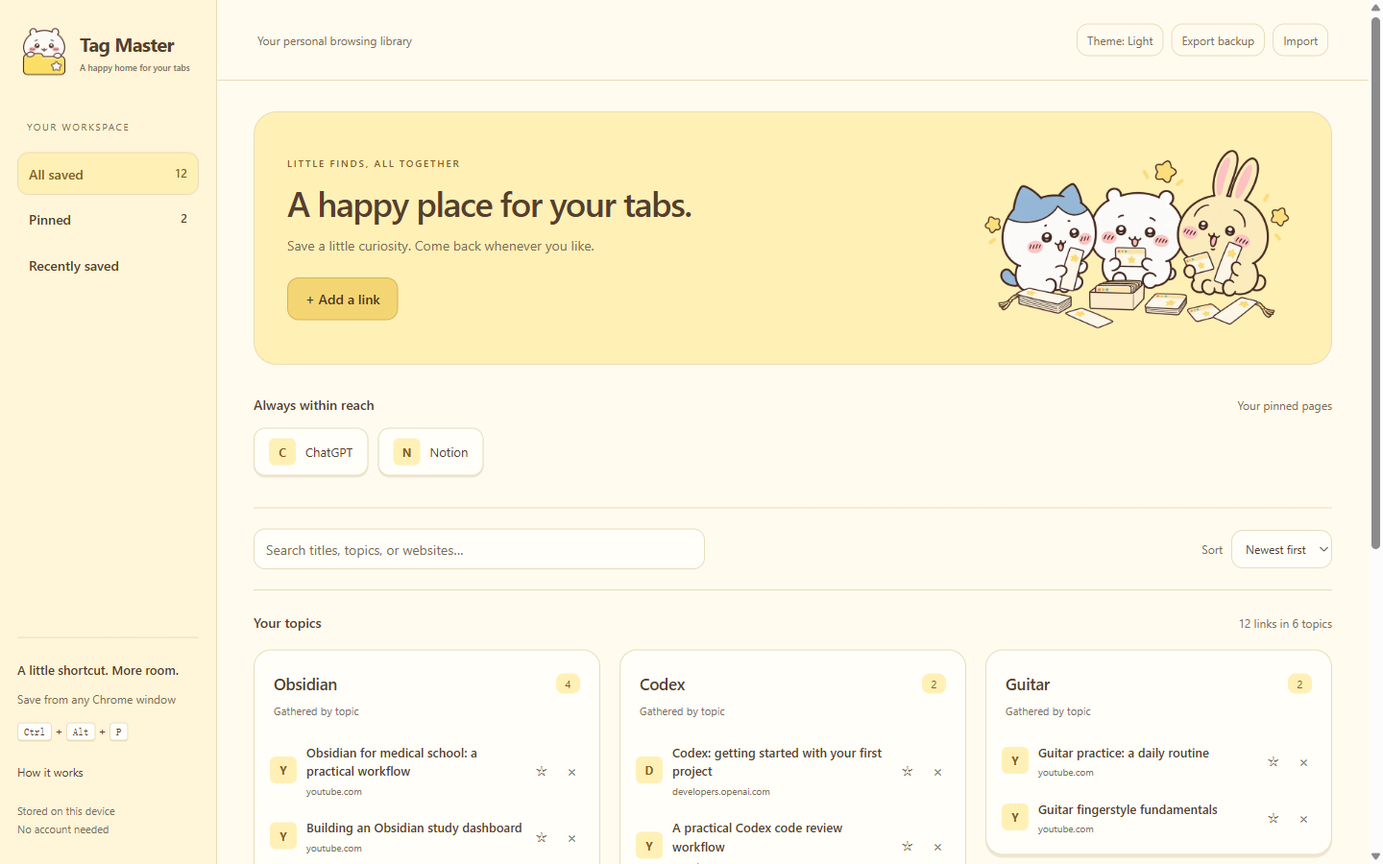
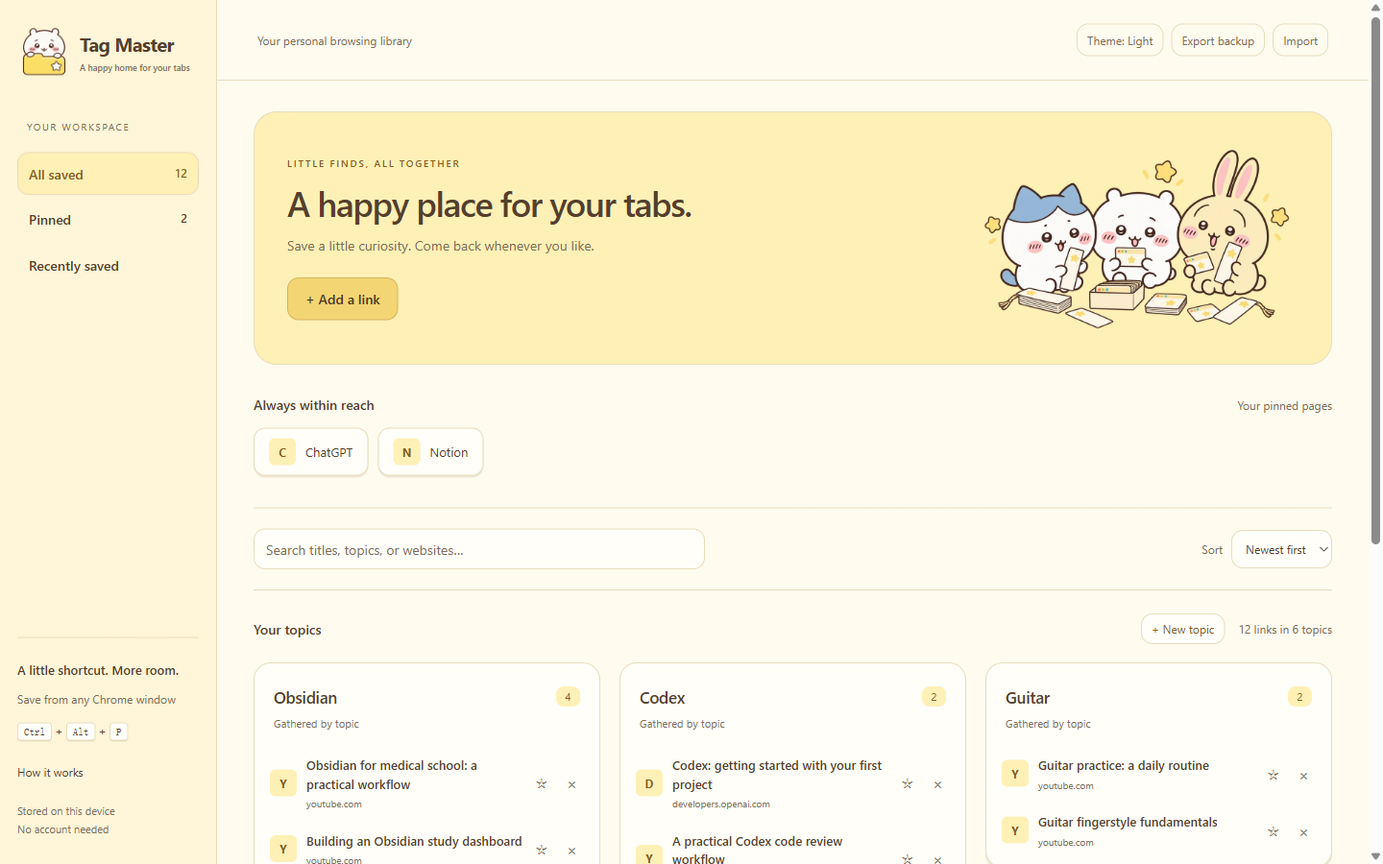
Add editable topics, empty topics, and drag-and-drop organization

diff --git a/library.js b/library.js
@@ -1,9 +1,9 @@
-import { cleanEntry, groupEntries, parseBackup } from './core.js';
+import { cleanEntry, cleanTopic, groupEntries, parseBackup } from './core.js';
 
 const $ = selector => document.querySelector(selector);
 const extension = !!globalThis.chrome?.runtime?.id;
 const demo = new URLSearchParams(location.search).has('demo');
-let entries = [], view = 'all', deleted, statusTimer, previewTimer;
+let entries = [], topics = [], view = 'all', deleted, statusTimer, previewTimer;
 const demoEntries = [
   ['Obsidian for medical school: a practical workflow','https://www.youtube.com/watch?v=example1','Connect lecture notes, clinical cases, and spaced repetition in Obsidian.'],
   ['Building an Obsidian study dashboard','https://www.youtube.com/watch?v=example2','A dashboard that brings together your study notes and review sessions.'],
@@ -23,9 +23,9 @@ function element(tag, className, text) { const node=document.createElement(tag);
 function notify(message, undo=false) { clearTimeout(statusTimer); $('#status span').textContent=message; $('#undo').hidden=!undo; $('#status').hidden=false; statusTimer=setTimeout(()=>$('#status').hidden=true,undo?10000:5000); }
 function domain(entry) { return new URL(entry.url).hostname.replace(/^www\./,''); }
 async function load() {
-  if(demo) entries=demoEntries;
-  else if(extension) entries=Object.entries(await chrome.storage.local.get(null)).filter(([key])=>key.startsWith('page:')).map(([,value])=>cleanEntry(value));
-  else entries=JSON.parse(localStorage.getItem('tag-master-preview')||'[]').map(cleanEntry);
+  if(demo) { entries=demoEntries; topics=[]; }
+  else if(extension) { const stored=await chrome.storage.local.get(null);entries=Object.entries(stored).filter(([key])=>key.startsWith('page:')).map(([,value])=>cleanEntry(value));topics=stored.topics||[]; }
+  else { entries=JSON.parse(localStorage.getItem('tag-master-preview')||'[]').map(cleanEntry);topics=JSON.parse(localStorage.getItem('tag-master-topics')||'[]'); }
   render();
 }
 async function mutate(message) {
@@ -33,11 +33,15 @@ async function mutate(message) {
   if(extension) { const result=await chrome.runtime.sendMessage(message); if(!result?.ok) throw new Error(result?.error||'Could not save changes.'); }
   else {
     let updated=[...entries];
-    if(message.type==='save') { const entry=cleanEntry(message.page); const old=updated.find(e=>e.id===entry.id); updated=updated.filter(e=>e.id!==entry.id); updated.push(old?{...entry,savedAt:old.savedAt,pinned:old.pinned}:entry); }
+    if(message.type==='save') { const entry=cleanEntry(message.page); const old=updated.find(e=>e.id===entry.id); updated=updated.filter(e=>e.id!==entry.id); updated.push(old?{...entry,savedAt:old.savedAt,pinned:old.pinned,topic:old.topic}:entry); }
     if(message.type==='delete')updated=updated.filter(e=>e.id!==message.id);
     if(message.type==='pin')updated=updated.map(e=>e.id===message.id?{...e,pinned:!e.pinned}:e);
-    if(message.type==='import') { const ids=new Set(updated.map(e=>e.id)); for(const entry of parseBackup(message.text)) if(!ids.has(entry.id)){updated.push(entry);ids.add(entry.id);} }
+    if(message.type==='create-topic') { const label=cleanTopic(message.topic);if(topics.some(topic=>topic.toLowerCase()===label.toLowerCase()))throw new Error('That topic already exists.');topics.push(label); }
+    if(message.type==='set-topic') { const label=cleanTopic(message.topic);updated=updated.map(e=>e.id===message.id?{...e,topic:label}:e);if(!topics.some(topic=>topic.toLowerCase()===label.toLowerCase()))topics.push(label); }
+    if(message.type==='rename-topic') { const label=cleanTopic(message.topic);const ids=new Set(message.ids);updated=updated.map(e=>ids.has(e.id)?{...e,topic:label}:e);topics=topics.filter(topic=>topic.toLowerCase()!==message.oldTopic.toLowerCase());if(!topics.some(topic=>topic.toLowerCase()===label.toLowerCase()))topics.push(label); }
+    if(message.type==='import') { const backup=parseBackup(message.text),ids=new Set(updated.map(e=>e.id));for(const entry of backup.entries)if(!ids.has(entry.id)){updated.push(entry);ids.add(entry.id);}for(const topic of backup.topics)if(!topics.some(value=>value.toLowerCase()===topic.toLowerCase()))topics.push(topic); }
     localStorage.setItem('tag-master-preview',JSON.stringify(updated));
+    localStorage.setItem('tag-master-topics',JSON.stringify(topics));
   }
   await load(); return true;
 }
@@ -52,6 +56,17 @@ function makeLink(entry, favorite=false) {
   a.addEventListener('mouseleave',hidePreviewSoon);a.addEventListener('blur',hidePreviewSoon);
   return a;
 }
+function editTopic(button,group) {
+  const input=element('input','topic-edit');input.value=group.label;input.maxLength=80;input.setAttribute('aria-label','Topic name');
+  button.replaceWith(input);input.focus();input.select();
+  let finished=false;
+  const finish=save=>{if(finished)return;finished=true;if(!save||input.value.trim()===group.label){input.replaceWith(button);return;}
+    const ids=groupEntries(entries,topics).find(item=>item.id===group.id)?.entries.map(entry=>entry.id)||[];
+    run(async()=>{if(await mutate({type:'rename-topic',oldTopic:group.label,topic:input.value,ids}))notify('Topic renamed.');});
+  };
+  input.onkeydown=event=>{if(event.key==='Enter'){event.preventDefault();finish(true);}if(event.key==='Escape'){event.preventDefault();finish(false);}};
+  input.onblur=()=>finish(true);
+}
 function render() {
   hidePreview();
   $('#demo-banner').hidden=!demo;
@@ -60,25 +75,29 @@ function render() {
   $('#favorites').replaceChildren(...pinned.map(e=>makeLink(e,true)));
   $('#view-title').textContent=view==='pinned'?'Your everyday favorites.':view==='recent'?'Your latest little discoveries.':'A happy place for your tabs.';
   const query=$('#search').value.trim().toLowerCase();
-  let groups=groupEntries(entries).map(group=>({...group,entries:group.entries.filter(e=>(view!=='pinned'||e.pinned)&&(view!=='recent'||Date.now()-e.savedAt<7*86400000)&&(!query||`${group.label} ${e.title} ${e.description} ${e.url}`.toLowerCase().includes(query)))})).filter(g=>g.entries.length);
+  let groups=groupEntries(entries,topics).map(group=>({...group,entries:group.entries.filter(e=>(view!=='pinned'||e.pinned)&&(view!=='recent'||Date.now()-e.savedAt<7*86400000)&&(!query||`${group.label} ${e.title} ${e.description} ${e.url}`.toLowerCase().includes(query)))})).filter(g=>g.entries.length||(view==='all'&&(!query||group.label.toLowerCase().includes(query))&&topics.some(topic=>topic.toLowerCase()===g.id)));
   const sort=$('#sort').value;
   const compare=sort==='title'?(a,b)=>a.title.localeCompare(b.title):sort==='oldest'?(a,b)=>a.savedAt-b.savedAt:(a,b)=>b.savedAt-a.savedAt;
   for(const group of groups)group.entries.sort(compare);
-  groups.sort(sort==='title'?(a,b)=>a.label.localeCompare(b.label):(a,b)=>compare(a.entries[0],b.entries[0]));
+  groups.sort(sort==='title'?(a,b)=>a.label.localeCompare(b.label):(a,b)=>a.entries.length&&b.entries.length?compare(a.entries[0],b.entries[0]):b.entries.length-a.entries.length||a.label.localeCompare(b.label));
   const count=groups.reduce((sum,g)=>sum+g.entries.length,0);
   $('#summary').textContent=`${count} ${count===1?'link':'links'} in ${groups.length} ${groups.length===1?'topic':'topics'}${view==='recent'?' / last 7 days':''}`;
   const cards=groups.map(group=>{
     const card=element('section','topic-card'), heading=element('div','topic-heading');
-    heading.append(element('h3','',group.label),element('span','count',String(group.entries.length)));card.append(heading,element('div','topic-info','Gathered by topic'));
+    const title=element('h3');const rename=element('button','topic-name',group.label);rename.type='button';rename.title='Rename topic';rename.setAttribute('aria-label',`Rename topic ${group.label}`);rename.onclick=()=>editTopic(rename,group);title.append(rename);
+    heading.append(title,element('span','count',String(group.entries.length)));card.append(heading,element('div','topic-info',group.entries.length?'Gathered by topic':'Drag links here to fill this topic'));
+    card.ondragover=event=>{if(event.dataTransfer.types.includes('text/plain')){event.preventDefault();event.dataTransfer.dropEffect='move';card.classList.add('drop-target');}};
+    card.ondragleave=event=>{if(!card.contains(event.relatedTarget))card.classList.remove('drop-target');};
+    card.ondrop=event=>{event.preventDefault();card.classList.remove('drop-target');const id=event.dataTransfer.getData('text/plain');if(!entries.some(entry=>entry.id===id)||group.entries.some(entry=>entry.id===id))return;run(async()=>{if(await mutate({type:'set-topic',id,topic:group.label}))notify(`Moved to ${group.label}.`);});};
     const list=element('ul','link-list');
     for(const entry of group.entries){
-      const row=element('li','link-row');row.append(makeLink(entry));
+      const row=element('li','link-row');row.draggable=true;row.title='Drag to another topic';row.ondragstart=event=>{hidePreview();event.dataTransfer.setData('text/plain',entry.id);event.dataTransfer.effectAllowed='move';row.classList.add('dragging');};row.ondragend=()=>{row.classList.remove('dragging');document.querySelectorAll('.drop-target').forEach(node=>node.classList.remove('drop-target'));};row.append(makeLink(entry));
       const pin=element('button','row-action pin',entry.pinned?'★':'☆');pin.title=entry.pinned?'Unpin link':'Pin link';pin.setAttribute('aria-label',`${entry.pinned?'Unpin':'Pin'} ${entry.title}`);pin.setAttribute('aria-pressed',String(entry.pinned));pin.onclick=()=>run(()=>mutate({type:'pin',id:entry.id}));
       const remove=element('button','row-action delete','×');remove.title='Delete link';remove.setAttribute('aria-label',`Delete ${entry.title}`);remove.onclick=()=>run(async()=>{if(await mutate({type:'delete',id:entry.id})){deleted=entry;notify('Link deleted.',true);$('#search').focus();}});
       row.append(pin,remove);list.append(row);
     }card.append(list);return card;
   });
-  $('#groups').replaceChildren(...cards);$('#empty').hidden=!!entries.length;
+  $('#groups').replaceChildren(...cards);$('#empty').hidden=!!(entries.length||topics.length);
   if(entries.length&&!cards.length) {const empty=element('p','muted',query?'No matches. Try another title, topic, or website.':view==='pinned'?'No pinned links yet. Use the star beside any saved link.':'No pages saved in the last 7 days. Your older links are in All saved.');$('#groups').append(empty);}
 }
 function schedulePreview(entry,anchor){clearTimeout(previewTimer);previewTimer=setTimeout(()=>{
@@ -95,11 +114,13 @@ window.addEventListener('resize',hidePreview);
 document.querySelectorAll('[data-view]').forEach(button=>button.onclick=()=>{view=button.dataset.view;document.querySelectorAll('[data-view]').forEach(b=>b.classList.toggle('active',b===button));render();});
 $('#search').oninput=render;$('#sort').onchange=render;
 for(const id of ['#add','#empty-add'])$(id).onclick=()=>$('#add-dialog').showModal();
+$('#create-topic').onclick=()=>{$('#topic-dialog').showModal();$('#topic-form input').focus();};
+$('#topic-form').onsubmit=event=>{event.preventDefault();run(async()=>{const button=$('#topic-form button[type="submit"]');button.disabled=true;try{if(await mutate({type:'create-topic',topic:new FormData(event.target).get('topic')})){$('#topic-dialog').close();event.target.reset();notify('Topic created.');}}finally{button.disabled=false;}});};
 $('#help-button').onclick=()=>$('#help-dialog').showModal();
 document.querySelectorAll('[data-close]').forEach(b=>b.onclick=()=>b.closest('dialog').close());
 $('#add-form').onsubmit=event=>{event.preventDefault();run(async()=>{const button=$('#add-form button[type="submit"]');button.disabled=true;try{if(await mutate({type:'save',page:Object.fromEntries(new FormData(event.target))})){$('#add-dialog').close();event.target.reset();notify('Link saved.');}}finally{button.disabled=false;}});};
 $('#undo').onclick=()=>run(async()=>{if(deleted&&await mutate({type:'save',page:deleted})){deleted=null;notify('Link restored.');}});
-$('#export').onclick=()=>{const blob=new Blob([JSON.stringify({version:1,exportedAt:new Date().toISOString(),entries},null,2)],{type:'application/json'});const url=URL.createObjectURL(blob);const a=element('a');a.href=url;a.download=`tag-master${demo?'-example':''}-${new Date().toISOString().slice(0,10)}.json`;a.click();setTimeout(()=>URL.revokeObjectURL(url),1000);notify('Backup exported.');};
+$('#export').onclick=()=>{const blob=new Blob([JSON.stringify({version:2,exportedAt:new Date().toISOString(),entries,topics},null,2)],{type:'application/json'});const url=URL.createObjectURL(blob);const a=element('a');a.href=url;a.download=`tag-master${demo?'-example':''}-${new Date().toISOString().slice(0,10)}.json`;a.click();setTimeout(()=>URL.revokeObjectURL(url),1000);notify('Backup exported.');};
 $('#import').onclick=()=>$('#import-file').click();
 $('#import-file').onchange=event=>run(async()=>{const file=event.target.files[0];try{if(!file)return;if(file.size>40*1024*1024)throw new Error('This backup is too large (40 MB maximum).');if(await mutate({type:'import',text:await file.text()}))notify('Backup imported. Existing links were kept.');}finally{event.target.value='';}});
 let theme=localStorage.getItem('tag-master-theme')||'light';

diff --git a/library.html b/library.html
@@ -15,7 +15,7 @@
       <section class="heading"><div class="heading-copy"><p class="eyebrow">LITTLE FINDS, ALL TOGETHER</p><h1 id="view-title">A happy place for your tabs.</h1><p>Save a little curiosity. Come back whenever you like.</p><button id="add" class="primary">+ Add a link</button></div><img class="friends-art" src="assets/chiikawa-friends.webp" width="900" height="563" alt="Chiikawa, Hachiware, and Usagi sorting little bookmarks together"></section>
       <section id="favorites-section" aria-labelledby="favorites-title" hidden><div class="section-label"><h2 id="favorites-title">Always within reach</h2><span>Your pinned pages</span></div><div id="favorites"></div></section>
       <section class="library-tools" aria-label="Filter library"><div class="search-wrap"><label for="search">Search your library</label><input id="search" type="search" placeholder="Search titles, topics, or websites…" autocomplete="off"></div><label class="sort-label">Sort <select id="sort"><option value="newest">Newest first</option><option value="oldest">Oldest first</option><option value="title">Title A–Z</option></select></label></section>
-      <div class="section-label results-label"><h2 id="results-title">Your topics</h2><span id="summary" aria-live="polite">Loading your library…</span></div>
+      <div class="section-label results-label"><h2 id="results-title">Your topics</h2><div class="topic-controls"><button id="create-topic">+ New topic</button><span id="summary" aria-live="polite">Loading your library…</span></div></div>
       <div id="groups" class="topic-grid"></div>
       <section id="empty" hidden><img class="empty-mascot" src="assets/logo.png" width="80" height="80" alt=""><h2>Your first little find belongs here.</h2><p>On a webpage in any Chrome window, press <strong>Ctrl + Alt + P</strong>.<br>Topics take shape as your collection grows.</p><button id="empty-add" class="primary">Add your first link</button><a class="example-link" href="library.html?demo=1">Explore an example library</a></section>
       <footer><span>Saved pages stay until you delete them.</span><span>Topics are discovered locally from page text.</span></footer>
@@ -24,5 +24,6 @@
   <div id="preview" role="tooltip" hidden></div>
   <div id="status" role="status" hidden><span></span><button id="undo" hidden>Undo</button></div>
   <dialog id="add-dialog"><form id="add-form"><div class="dialog-heading"><h2>Add a link</h2><button type="button" data-close aria-label="Close dialog">×</button></div><label>Page URL<input name="url" type="url" placeholder="https://…" required></label><label>Title<input name="title" placeholder="A title helps discover the right topic" maxlength="500" required></label><label>Description <span class="muted">(optional)</span><textarea name="description" rows="3" maxlength="1600" placeholder="What would you like to remember?"></textarea></label><p class="muted">Use the shortcut on a webpage to capture its title and content automatically.</p><button class="primary" type="submit">Save link</button></form></dialog>
-  <dialog id="help-dialog"><div class="dialog-heading"><h2>A calmer way to browse.</h2><button data-close aria-label="Close dialog">×</button></div><ol><li><strong>Save what catches your eye.</strong><p>Press Ctrl + Alt + P while focused on a webpage in any Chrome window in this profile. You’ll see a confirmation after it’s stored. The library can be in another window, or closed. The shortcut also works inside embedded pages and saves the main tab.</p></li><li><strong>Let topics take shape.</strong><p>Shared words in titles and descriptions create topic groups. Grouping is automatic and offline; it does not understand every synonym.</p></li><li><strong>Make room in your tab bar.</strong><p>After saving, you can close the original tab yourself. Pin a saved link to keep favorites at the top. Hover or focus a title to preview its captured content.</p></li><li><strong>Keep a backup.</strong><p>Your library survives restarts. Export a backup before uninstalling the extension, deleting your Chrome profile, or moving devices.</p></li></ol><p class="muted">Ctrl + Alt + P requires webpage focus. With the address bar focused, use Ctrl + Shift + P (configurable at chrome://extensions/shortcuts). Chrome settings, the Web Store, and other protected pages can’t be captured. Separate Chrome profiles and other browsers have separate libraries. Previews are saved excerpts, not live pages.</p></dialog>
+  <dialog id="topic-dialog"><form id="topic-form"><div class="dialog-heading"><h2>Create a topic</h2><button type="button" data-close aria-label="Close dialog">×</button></div><label>Topic name<input name="topic" placeholder="e.g. Obsidian" maxlength="80" required></label><p class="muted">Create a topic now, then drag saved links into it.</p><button class="primary" type="submit">Create topic</button></form></dialog>
+  <dialog id="help-dialog"><div class="dialog-heading"><h2>A calmer way to browse.</h2><button data-close aria-label="Close dialog">×</button></div><ol><li><strong>Save what catches your eye.</strong><p>Press Ctrl + Alt + P while focused on a webpage in any Chrome window in this profile. You’ll see a confirmation after it’s stored. The library can be in another window, or closed. The shortcut also works inside embedded pages and saves the main tab.</p></li><li><strong>Let topics take shape.</strong><p>Shared words in titles and descriptions create topic groups. Click a topic title to rename it, create an empty topic in advance, or drag a link onto another topic card.</p></li><li><strong>Make room in your tab bar.</strong><p>After saving, you can close the original tab yourself. Pin a saved link to keep favorites at the top. Hover or focus a title to preview its captured content.</p></li><li><strong>Keep a backup.</strong><p>Your library survives restarts. Export a backup before uninstalling the extension, deleting your Chrome profile, or moving devices.</p></li></ol><p class="muted">Ctrl + Alt + P requires webpage focus. With the address bar focused, use Ctrl + Shift + P (configurable at chrome://extensions/shortcuts). Chrome settings, the Web Store, and other protected pages can’t be captured. Separate Chrome profiles and other browsers have separate libraries. Previews are saved excerpts, not live pages.</p></dialog>
 </body></html>

diff --git a/background.js b/background.js
@@ -1,4 +1,4 @@
-import { cleanEntry, parseBackup } from './core.js';
+import { cleanEntry, cleanTopic, parseBackup } from './core.js';
 
 let queue = Promise.resolve();
 function serialize(task) { const result = queue.then(task); queue = result.catch(() => {}); return result; }
@@ -8,7 +8,7 @@ chrome.storage.local.setAccessLevel({ accessLevel: 'TRUSTED_CONTEXTS' });
 async function save(raw) {
   const entry = cleanEntry(raw);
   const previous = (await chrome.storage.local.get(key(entry.id)))[key(entry.id)];
-  if (previous) { entry.savedAt = previous.savedAt; entry.pinned = previous.pinned; }
+  if (previous) { entry.savedAt = previous.savedAt; entry.pinned = previous.pinned; entry.topic = previous.topic || ''; }
   await chrome.storage.local.set({ [key(entry.id)]: entry });
   return { ok: true, duplicate: !!previous };
 }
@@ -29,11 +29,42 @@ chrome.runtime.onMessage.addListener((message, sender, reply) => {
       if (entry) await chrome.storage.local.set({ [key(entry.id)]: { ...entry, pinned: !entry.pinned } });
       return { ok: true };
     }
+    if (message.type === 'create-topic') {
+      const label = cleanTopic(message.topic);
+      const { topics = [] } = await chrome.storage.local.get('topics');
+      if (topics.some(topic => topic.toLowerCase() === label.toLowerCase())) throw new Error('That topic already exists.');
+      await chrome.storage.local.set({ topics: [...topics, label] });
+      return { ok: true };
+    }
+    if (message.type === 'set-topic') {
+      const label = cleanTopic(message.topic);
+      const entry = (await chrome.storage.local.get(key(message.id)))[key(message.id)];
+      if (!entry) throw new Error('This link is no longer in your library.');
+      const { topics = [] } = await chrome.storage.local.get('topics');
+      await chrome.storage.local.set({
+        [key(entry.id)]: { ...entry, topic: label },
+        topics: topics.some(topic => topic.toLowerCase() === label.toLowerCase()) ? topics : [...topics, label]
+      });
+      return { ok: true };
+    }
+    if (message.type === 'rename-topic') {
+      const label = cleanTopic(message.topic);
+      if (!Array.isArray(message.ids) || message.ids.length > 20000) throw new Error('Could not rename this topic.');
+      const ids = message.ids.filter(id => typeof id === 'string');
+      const stored = await chrome.storage.local.get([...ids.map(key), 'topics']);
+      const updates = Object.fromEntries(ids.filter(id => stored[key(id)]).map(id => [key(id), { ...stored[key(id)], topic: label }]));
+      const topics = (stored.topics || []).filter(topic => topic.toLowerCase() !== String(message.oldTopic).toLowerCase());
+      if (!topics.some(topic => topic.toLowerCase() === label.toLowerCase())) topics.push(label);
+      await chrome.storage.local.set({ ...updates, topics });
+      return { ok: true };
+    }
     if (message.type === 'import') {
-      const entries = parseBackup(message.text);
+      const { entries, topics } = parseBackup(message.text);
       const existing = await chrome.storage.local.get(null);
       const additions = Object.fromEntries(entries.filter(e => !existing[key(e.id)]).map(e => [key(e.id), e]));
-      await chrome.storage.local.set(additions);
+      const mergedTopics = [...(existing.topics || [])];
+      for (const topic of topics) if (!mergedTopics.some(value => value.toLowerCase() === topic.toLowerCase())) mergedTopics.push(topic);
+      await chrome.storage.local.set({ ...additions, topics: mergedTopics });
       return { ok: true, count: Object.keys(additions).length };
     }
     throw new Error('Unknown action.');

diff --git a/core.js b/core.js
@@ -23,8 +23,14 @@ export function cleanEntry(raw) {
     description: String(raw.description || '').slice(0, 1600),
     text: String(raw.text || '').slice(0, 3000),
     savedAt: Number.isFinite(raw.savedAt) && raw.savedAt > 0 ? raw.savedAt : Date.now(),
-    pinned: raw.pinned === true
+    pinned: raw.pinned === true,
+    topic: String(raw.topic || '').trim().slice(0, 80)
   };
+}
+
+export function cleanTopic(value) {
+  if (typeof value !== 'string' || !value.trim() || value.trim().length > 80) throw new Error('Choose a topic name up to 80 characters.');
+  return value.trim();
 }
 
 function terms(text) {
@@ -41,7 +47,7 @@ function topicTerms(text) {
 }
 
 // ponytail: lexical topic discovery is offline and explainable; semantic synonyms need an embedding model.
-export function groupEntries(entries) {
+export function groupEntries(entries, savedTopics = []) {
   const docs = entries.map(entry => {
     const weights = new Map();
     const titleTerms = new Set(topicTerms(entry.title).map(word => word.toLowerCase()));
@@ -55,11 +61,16 @@ export function groupEntries(entries) {
     return { entry, weights, titleTerms };
   });
   const frequency = new Map();
-  for (const doc of docs) for (const key of doc.titleTerms) frequency.set(key, (frequency.get(key) || 0) + 1);
+  for (const doc of docs) if (!doc.entry.topic) for (const key of doc.titleTerms) frequency.set(key, (frequency.get(key) || 0) + 1);
   const groups = new Map();
+  for (const value of savedTopics) {
+    const label = cleanTopic(value);
+    if (!groups.has(label.toLowerCase())) groups.set(label.toLowerCase(), { id: label.toLowerCase(), label, entries: [] });
+  }
   for (const doc of docs) {
     let best, score = 0;
-    for (const [key, value] of doc.weights) {
+    if (doc.entry.topic) best = { key: doc.entry.topic.toLowerCase(), label: doc.entry.topic };
+    for (const [key, value] of doc.entry.topic ? [] : doc.weights) {
       const count = frequency.get(key);
       if (!count || count < 2 || !doc.titleTerms.has(key)) continue;
       const distinctive = /[a-z][A-Z]|[A-Z].*[A-Z]/.test(value.label) ? 1.35 : /^[A-Z]/.test(value.label) ? 1.15 : 1;
@@ -79,6 +90,7 @@ export function groupEntries(entries) {
 
 export function parseBackup(text) {
   const data = JSON.parse(text);
-  if (data?.version !== 1 || !Array.isArray(data.entries) || data.entries.length > 20000) throw new Error('Choose a Tag Master backup (up to 20,000 links).');
-  return data.entries.map(cleanEntry);
+  if (![1, 2].includes(data?.version) || !Array.isArray(data.entries) || data.entries.length > 20000) throw new Error('Choose a Tag Master backup (up to 20,000 links).');
+  if (data.version === 2 && (!Array.isArray(data.topics) || data.topics.length > 2000)) throw new Error('Choose a valid Tag Master backup.');
+  return { entries: data.entries.map(cleanEntry), topics: data.version === 2 ? data.topics.map(cleanTopic) : [] };
 }

diff --git a/library.css b/library.css
@@ -9,6 +9,7 @@
 .heading-copy{min-width:0}.heading-copy .primary{margin-top:22px}.friends-art{display:block;max-width:100%;height:auto;object-fit:contain}
 .topic-card{box-shadow:0 3px 0 var(--shadow)}.topic-heading{padding-top:23px;padding-bottom:9px}.topic-heading .count{background:var(--tint);color:var(--accent);border:0;border-radius:8px;min-width:25px;text-align:center}
 .favorite{box-shadow:0 2px 0 var(--shadow)}.nav-button.active{box-shadow:inset 0 0 0 1px var(--line)}
+.topic-controls{display:flex;align-items:center;gap:14px;color:var(--muted);font-size:12px}.topic-controls button{padding:7px 10px;font-size:12px;color:var(--accent)}.topic-name{padding:2px 4px;margin:-2px -4px;border:0;background:transparent;border-radius:6px;font-size:17px;font-weight:600;letter-spacing:-.3px;text-align:left;overflow-wrap:anywhere}.topic-name:hover{background:var(--hover)}.topic-edit{min-width:0;width:100%;padding:3px 7px;font-size:17px;font-weight:600}.topic-card.drop-target{outline:2px dashed var(--accent);outline-offset:3px;background:var(--hover)}.link-row.dragging{opacity:.45;cursor:grabbing}.link-row[draggable="true"]{cursor:grab}
 @media(prefers-reduced-motion:no-preference){
   button,.favorite{transition:opacity .15s,transform .15s}button:active{transform:translateY(1px)}
   .mascot-logo{animation:mascot-greeting 6s ease-in-out infinite}

diff --git a/tests/core.test.js b/tests/core.test.js
@@ -21,7 +21,12 @@ test('safe URLs, duplicate video identity, dynamic topics, and backup validation
   ].map(([title,description],i)=>cleanEntry({title,description,url:`https://example.org/${i}`}));
   assert.deepEqual(groupEntries(mixed).map(g=>[g.label,g.entries.length]).sort(),[['Codex',2],['Guitar',2],['Machine learning',2]]);
   assert.equal(groupEntries([cleanEntry({title:'天文学 观测 指南',url:'https://example.com/1'}),cleanEntry({title:'天文学 恒星 研究',url:'https://example.com/2'})])[0].entries.length,2);
-  assert.deepEqual(parseBackup(JSON.stringify({version:1,entries})),entries);
+  assert.deepEqual(parseBackup(JSON.stringify({version:1,entries})),{entries,topics:[]});
+  const moved=cleanEntry({...entries[0],topic:'Study notes'});
+  const manual=groupEntries([moved,...entries.slice(1)],['Study notes','Read later']);
+  assert.equal(manual.find(group=>group.label==='Study notes').entries[0].id,moved.id);
+  assert.equal(manual.find(group=>group.label==='Read later').entries.length,0);
+  assert.deepEqual(parseBackup(JSON.stringify({version:2,entries:[moved],topics:['Study notes','Read later']})),{entries:[moved],topics:['Study notes','Read later']});
   assert.throws(()=>parseBackup('{"version":2,"entries":[]}'));
   assert.throws(()=>parseBackup('{"version":1,"entries":[{"url":"file:///secrets"}]}'));
 });

diff --git a/README.md b/README.md
@@ -40,6 +40,7 @@ Export a backup first. Download and extract the latest files, replace the conten
 - Click the extension toolbar button to open the library. Saving never closes a tab. Once a save is confirmed, you can close the original yourself.
 - Hover or keyboard-focus a link to see its saved description or content excerpt. This is a text preview captured at save time, not a live embedded page or a complete offline copy.
 - Use a star to pin favorites, **×** to delete, and **Undo** to restore the last deletion for 10 seconds.
+- Click a topic title to rename it, use **+ New topic** to create an empty topic, and drag a saved link onto another topic card to move it. These choices survive restarts and are included in exported backups.
 - Topics are discovered from repeated words in titles and descriptions, including languages supported by `Intl.Segmenter`. There is no predefined topic list, cloud AI service, or API key. This lexical method can miss synonyms and sometimes group pages around a broad word. Titles and descriptions carry more reliable signals than full article text.
 - The Recent view shows the last seven days. Filtering does not alter saved records.
 
